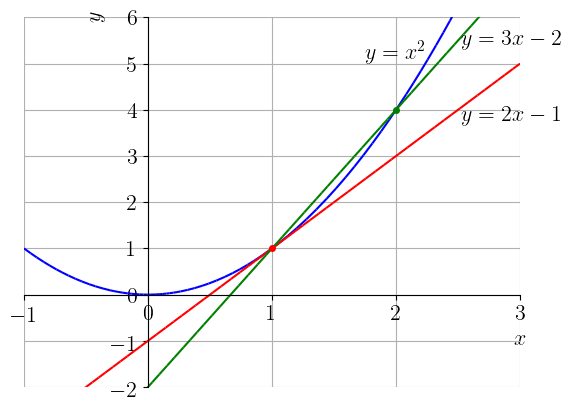
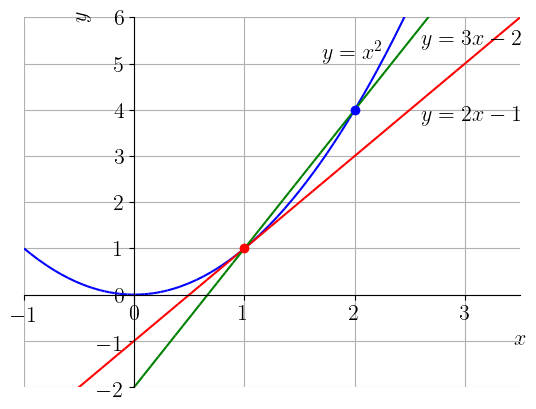
*: revisão

diff --git a/src/CalculoI/cap_deriv/cap_deriv.tex b/src/CalculoI/cap_deriv/cap_deriv.tex
@@ -68,7 +68,7 @@ Menos formal, é a reta limite das retas secantes ao gráfico da função pelos 
   
   \begin{figure}[H]
     \centering
-    \includegraphics[width=0.7\textwidth]{./cap_deriv/dados/fig_cap_deriv_ex_rt_x2/fig_cap_deriv_ex_rt_x2}
+    \includegraphics[width=0.7\textwidth]{./cap_deriv/dados/fig_cap_deriv_ex_rt_x2/fig}
     \caption{Esboços dos gráficos de $f(x)=x^2$ (azul), da reta secante pelos pontos $x_0=1$ e $x_1=2$ (verde) e da reta tangente ao gráfico de $f$ no ponto $x_0 = 1$ (vermelho).}
     \label{fig:cap_deriv_ex_rt_x2}
   \end{figure}
@@ -87,23 +87,28 @@ Menos formal, é a reta limite das retas secantes ao gráfico da função pelos 
   Na Figura \ref{fig:cap_deriv_ex_rt_x2}, temos os esboços dos gráfico da função e da reta tangente (vermelho).
   
   \ifispython
-  Com o \sympy, podemos obter a expressão da reta secante com os seguintes comandos:
+  Com o {\python}+{\sympy}, podemos obter a expressão da reta secante com os seguintes comandos:
   \begin{lstlisting}
-    from sympy import *
-    x = Symbol('x')
-    x0 = 1
-    x1 = 2
-    f = lambda x: x**2
-    msec = (f(x1)-f(x0))/(x1-x0)
-    msec*(x-x0)+f(x0)
+    In : from sympy import *
+    ...: x,y = symbols('x,y')
+    ...: x0 =  1
+    ...: x1 = 2
+    ...: f = lambda x: x**2
+    ...: msec = (f(x1)-f(x0))/(x1-x0)
+    ...: Eq(y, msec*(x-x0)+f(x0))
+    Out: Eq(y, 3.0*x - 2.0)
   \end{lstlisting}
   A expressão da reta tangente pode ser obtida com os seguintes comandos:
   \begin{lstlisting}
-    h = Symbol("h")
-    x0 = 1
-    f = lambda x: x**2
-    mtg = limit((f(x0+h)-f(x0))/h,h,0)
-    mtg*(x-x0)+f(x0)
+    In : from sympy import *
+    ...: x,y = symbols('x,y')
+    ...: h = Symbol('h')
+    ...: x0 = 1
+    ...: f = lambda x: x**2
+    ...: mtg = limit((f(x0+h)-f(x0))/h, h, 0)
+    ...: Eq(y, mtg*(x-x0)+f(x0))
+    ...: 
+    Out: Eq(y, 2*x - 1)
   \end{lstlisting}
   \fi
 \end{ex}
@@ -111,7 +116,7 @@ Menos formal, é a reta limite das retas secantes ao gráfico da função pelos 
 \subsection{Taxa de variação}
 
 \begin{flushright}
-  [Vídeo] | [Áudio] | \href{https://phkonzen.github.io/notas/contato.html}{[Contatar]}
+  [YouTube] | [Vídeo] | [Áudio] | \href{https://phkonzen.github.io/notas/contato.html}{[Contatar]}
 \end{flushright}
 
 A {\bf taxa de variação média} de uma função $f$ quando $x$ varia de $x_0$ a $x_1$ é definida como

diff --git a/src/CalculoI/cap_deriv/dados/fig_cap_deriv_ex_rt_x2/main.py b/src/CalculoI/cap_deriv/dados/fig_cap_deriv_ex_rt_x2/main.py
@@ -11,12 +11,12 @@ var('x,y', real=True)
 
 x0 = 1
 
-p = plot(x**2, (x,-1,3), line_color="blue", show=False)
-q = plot(-1,(x,-1,3),line_color="none",show=False)
+p = plot(x**2, (x,-1,3.5), ylim=[-2,6], line_color="blue", show=False)
+q = plot(-1,(x,-1,3.5), ylim=[-2,6], line_color="none",show=False)
 p.extend(q)
-q = plot(2*x-1,(x,-1,3),line_color="red",show=False)
+q = plot(2*x-1,(x,-1,3.5), ylim=[-2,6], line_color="red",show=False)
 p.extend(q)
-q = plot(3*x-2,(x,-1,3),line_color="green",show=False)
+q = plot(3*x-2,(x,-1,3.5), ylim=[-2,6], line_color="green",show=False)
 p.extend(q)
 p.xlabel = '$x$'
 p.ylabel = '$y$'
@@ -26,9 +26,9 @@ fig = p._backend.fig
 ax = fig.axes[0]
 ax.grid()
 ax.set_ylim((-2,6))
-ax.plot([x0],[x0**2],marker="o",markersize=4,color="red")
-ax.plot([2],[4],marker="o",markersize=4,color="green")
-ax.text(1.75,5.1,"$y=x^2$")
-ax.text(2.52,5.4,"$y=3x-2$")
-ax.text(2.52,3.75,"$y=2x-1$")
+ax.plot([x0],[x0**2],marker="o",markersize=6,color="red")
+ax.plot([2],[4],marker="o",markersize=6,color="blue")
+ax.text(1.7,5.1,"$y=x^2$")
+ax.text(2.6,5.4,"$y=3x-2$")
+ax.text(2.6,3.75,"$y=2x-1$")
 fig.savefig('fig.png', bbox_inches='tight')
